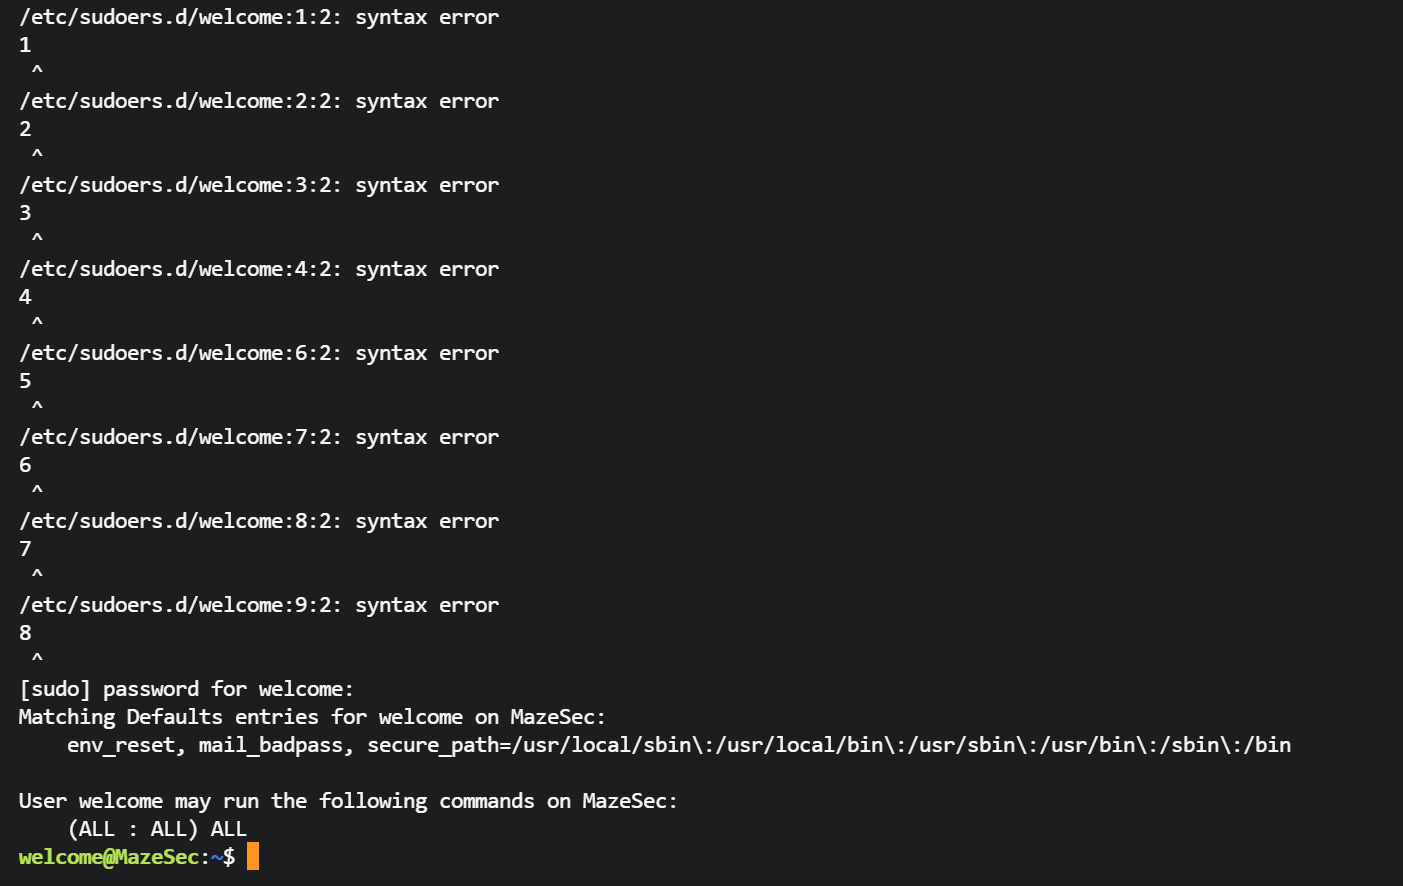
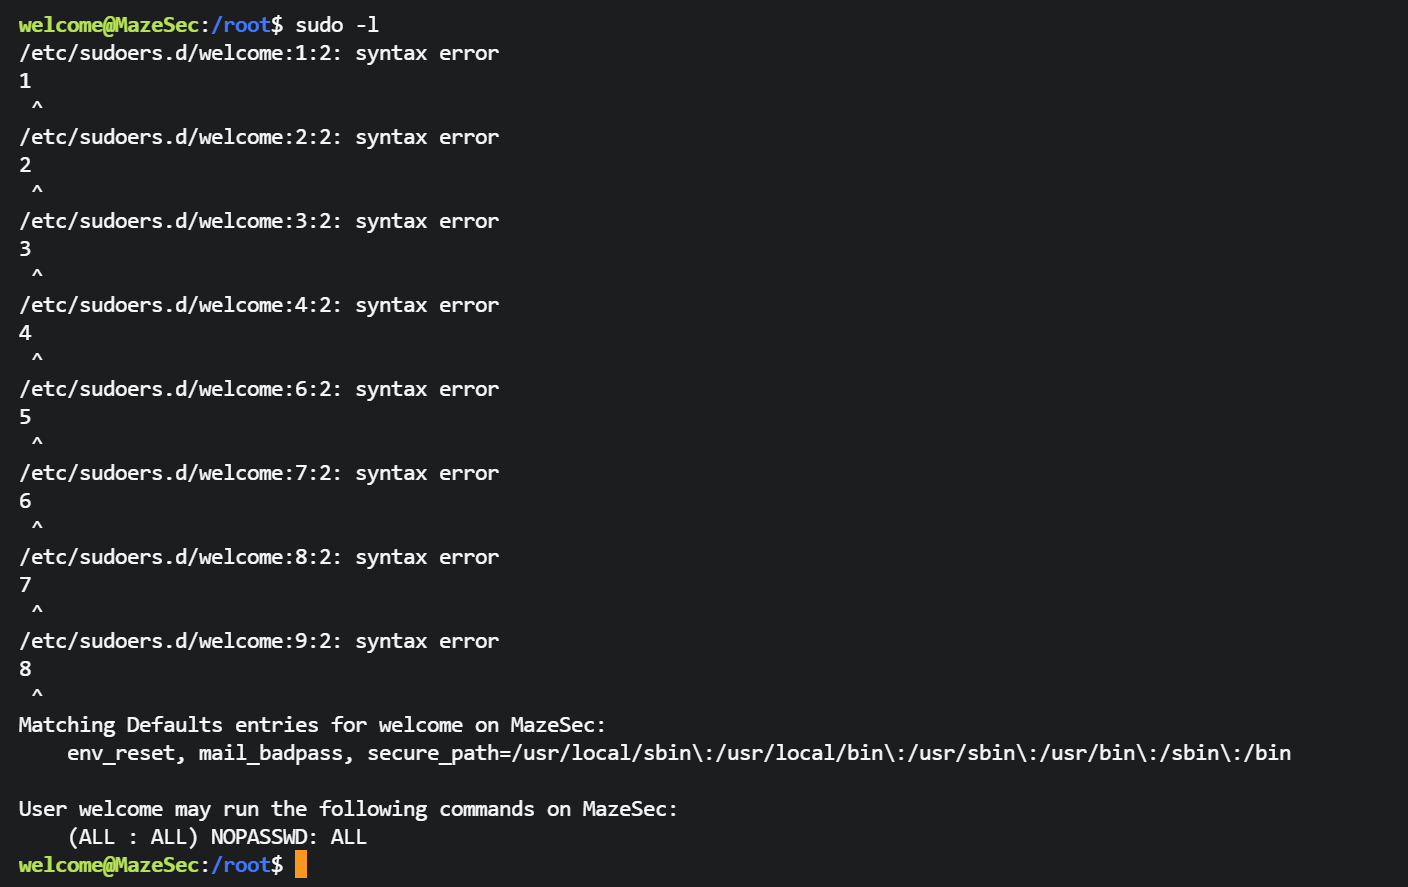
commit

Changed region(s): [[0.0, 0.0, 0.9195, 1.0]]

diff --git a/docs/13.提权/01.利用配置文件容错性实现权限提升的三种方式.md b/docs/13.提权/01.利用配置文件容错性实现权限提升的三种方式.md
@@ -234,6 +234,16 @@ root    ALL=(ALL:ALL) ALL
 welcome ALL=(ALL:ALL) NOPASSWD:/path/to/xxx
 ```
 
+
+
+::: danger
+实际操作建议：写入无密码的 sudo 权限配置，避免因目标用户需要输入密码而无法利用，当然，如果你知道用户密码，随意。
+:::
+
+```plaintext
+user ALL=(ALL:ALL) NOPASSWD: ALL
+```
+
 ### Debian 10
 
 测试：在 Debian 测试环境下，把恶意 sudoers 配置写入 `/etc/sudoers.d/welcome` 文件中
@@ -250,7 +260,7 @@ welcome ALL=(ALL:ALL) NOPASSWD:/path/to/xxx
 2
 3
 4
-welcome ALL=(ALL:ALL) ALL
+welcome ALL=(ALL:ALL) NOPASSWD: ALL
 5
 6
 7
@@ -283,7 +293,7 @@ welcome ALL=(ALL:ALL) ALL
 2
 3
 4
-welcome ALL=(ALL:ALL) ALL
+welcome ALL=(ALL:ALL) NOPASSWD: ALL
 5
 6
 7
@@ -292,11 +302,11 @@ welcome ALL=(ALL:ALL) ALL
 
 ![](/medias/linux-config-privesc/14.png)
 
-![](/medias/linux-config-privesc/15.png)
 
 切回 welcome 用户，测试 sudo 权限提升成功
 
-![](/medias/linux-config-privesc/16.png)
+![](/medias/linux-config-privesc/15.png)
+
 
 ### Alpine
 
@@ -308,12 +318,13 @@ welcome ALL=(ALL:ALL) ALL
 
 切到 root，在 `/etc/sudoers.d/welcome` 文件中写入内容：
 
+
 ```plaintext
 1
 2
 3
 4
-welcome ALL=(ALL:ALL) ALL
+welcome ALL=(ALL:ALL) NOPASSWD: ALL
 5
 6
 7
